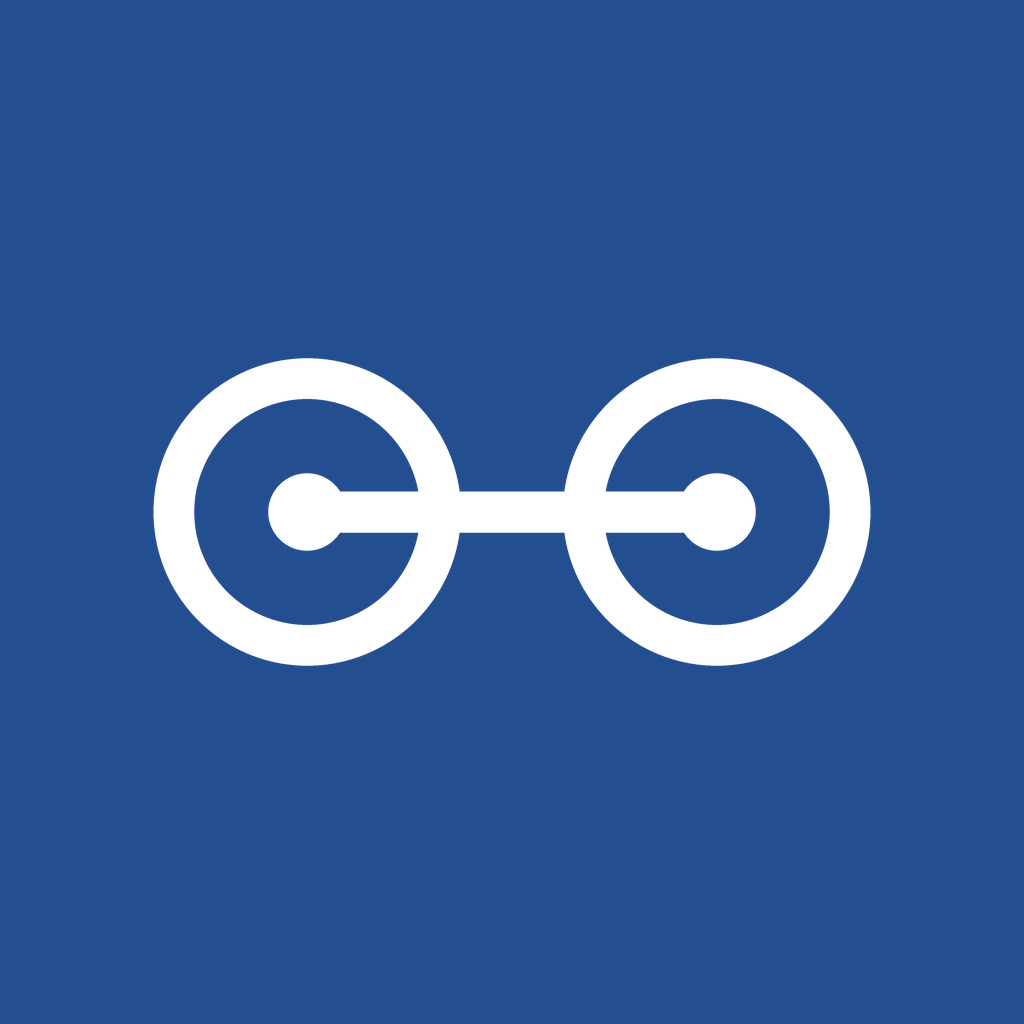
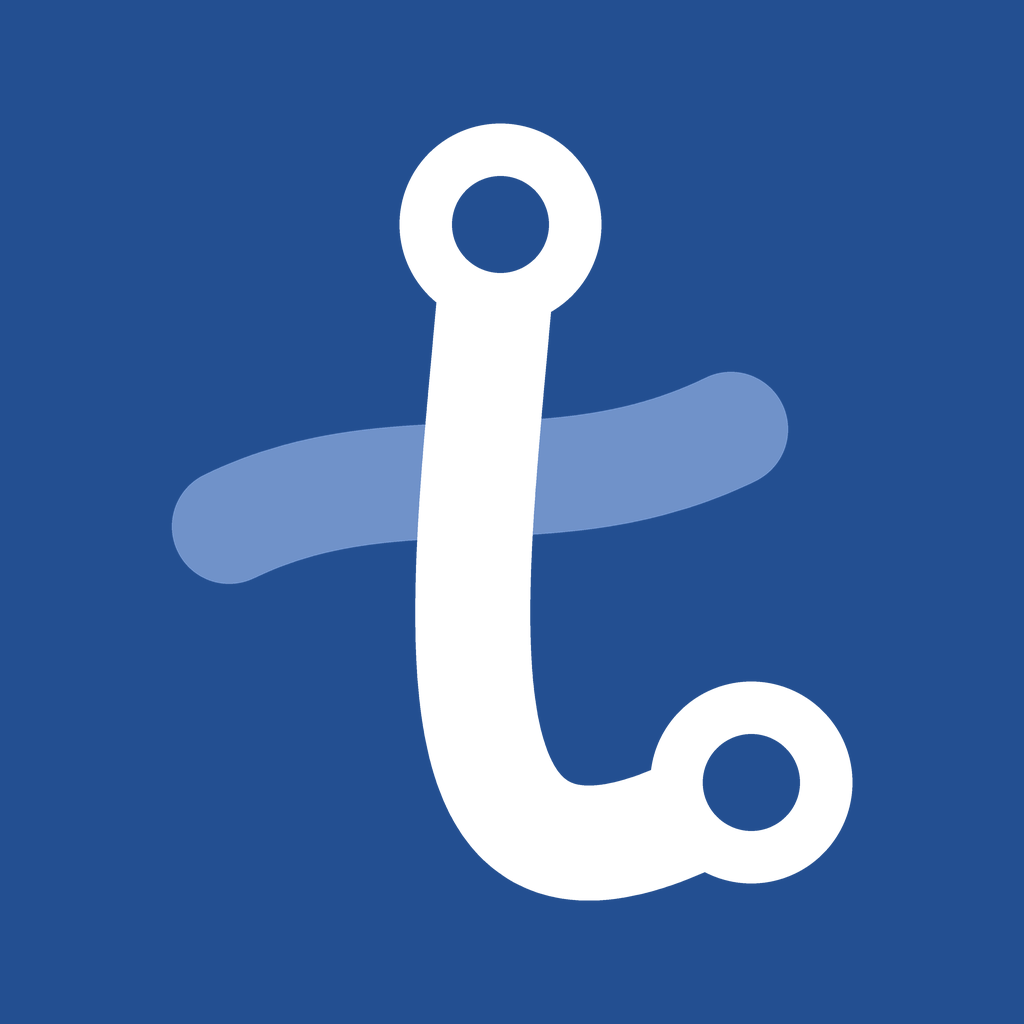
Updated branding

Changed region(s): [[0.125, 0.0938, 0.875, 0.9062]]

diff --git a/scripts/make_banner.py b/scripts/make_banner.py
@@ -1,0 +1,111 @@
+#!/usr/bin/env python3
+"""Builds mockups/banner.png (and banner-readme.png, the same without the logo): the logo, name and a line about the app on the
+left, and the screenshots tiled on a diagonal in the right-hand corner.
+
+Run from the project root after the mockups are captured:
+    python3 scripts/make_banner.py
+"""
+import glob
+import os
+import sys
+
+from PIL import Image, ImageDraw, ImageFilter, ImageFont
+
+sys.path.insert(0, os.path.dirname(os.path.abspath(__file__)))
+from logo import BAR_ON_LIGHT, mark  # noqa: E402
+
+ROOT = os.path.dirname(os.path.dirname(os.path.abspath(__file__)))
+W, H = 2560, 1040  # drawn at twice the size GitHub shows it
+DEEP, PRIMARY, MEDIUM, SOFT, WHITE = (22, 56, 102), (35, 79, 145), (82, 121, 184), (169, 189, 224), (255, 255, 255)
+
+NAME = "Tandem"
+TAGLINE = ["Your calendar and", "public transit,", "planned together."]
+DESCRIPTION = [
+    "It plans the trip between every event in",
+    "your day, tells you when to leave, and",
+    "finds time for a greener walk.",
+]
+
+# Screens in each column, top to bottom; columns run left to right.
+COLUMNS = [
+    # the day's schedule leads: these two columns are the ones nearest the text
+    ["dark/05-calendar-week", "light/10-green-routes", "dark/02-day-route"],
+    ["light/03-route-details", "dark/01-day", "light/02-day-route", "dark/04-calendar-month"],
+    ["light/07-activity", "dark/03-route-details", "light/04-calendar-month", "dark/09-settings-learned"],
+    ["light/08-settings", "dark/07-activity", "light/05-calendar-week", "dark/08-settings"],
+]
+TILE_W, GAP, ANGLE = 400, 44, 18
+STAGGER = [0, -330, -120, -450]  # vertical offset of each column
+
+
+def font(weight, size):
+    path = glob.glob(os.path.join(ROOT, f"frontend/node_modules/@expo-google-fonts/figtree/*/Figtree_{weight}.ttf"))[0]
+    return ImageFont.truetype(path, size)
+
+
+def tiles():
+    """The screenshots in staggered columns with soft shadows, on a transparent sheet."""
+    tile_h = round(TILE_W * 2208 / 1242)
+    rows = max(len(c) for c in COLUMNS)
+    pad = 500
+    sheet_w = len(COLUMNS) * (TILE_W + GAP) + 2 * pad
+    sheet_h = rows * (tile_h + GAP) + 2 * pad
+    shadow = Image.new("RGBA", (sheet_w, sheet_h), (0, 0, 0, 0))
+    sheet = Image.new("RGBA", (sheet_w, sheet_h), (0, 0, 0, 0))
+    radius = round(120 * TILE_W / 1242)
+    for c, column in enumerate(COLUMNS):
+        for r, name in enumerate(column):
+            shot = Image.open(os.path.join(ROOT, "mockups", name + ".png")).convert("RGBA").resize((TILE_W, tile_h), Image.LANCZOS)
+            x = pad + c * (TILE_W + GAP)
+            y = pad + STAGGER[c] + r * (tile_h + GAP)
+            ImageDraw.Draw(shadow).rounded_rectangle((x, y + 18, x + TILE_W, y + tile_h + 18), radius=radius, fill=(6, 18, 40, 150))
+            sheet.alpha_composite(shot, (x, y))
+    shadow = shadow.filter(ImageFilter.GaussianBlur(26))
+    shadow.alpha_composite(sheet)
+    return shadow.rotate(ANGLE, resample=Image.BICUBIC, expand=True)
+
+
+def build(lockup):
+    """The banner. With `lockup`, the logo and name sit above the headline."""
+    # Ground: deep blue, a little lighter towards the corner the screens sit in.
+    banner = Image.new("RGBA", (W, H), DEEP + (255,))
+    glow = Image.new("RGBA", (W, H), (0, 0, 0, 0))
+    ImageDraw.Draw(glow).ellipse((W * 0.45, -H * 0.5, W * 1.35, H * 1.3), fill=PRIMARY + (255,))
+    banner.alpha_composite(glow.filter(ImageFilter.GaussianBlur(260)))
+
+    grid = tiles()
+    # Centre of the tiled sheet sits right of centre, so the screens run off the top, right and bottom edges.
+    banner.alpha_composite(grid, (round(W * 0.81 - grid.width / 2), round(H * 0.5 - grid.height / 2)))
+
+    d = ImageDraw.Draw(banner)
+    left, tile, after_logo, line, small, gap = 150, 148, 96, 110, 58, 46
+    height = len(TAGLINE) * line + gap + len(DESCRIPTION) * small + (tile + after_logo if lockup else 0)
+    y = round((H - height) / 2)  # the text block is centred top to bottom
+
+    if lockup:  # the mark on a white rounded tile, with the name beside it
+        d.rounded_rectangle((left, y, left + tile, y + tile), radius=38, fill=WHITE)
+        banner.alpha_composite(mark(tile, PRIMARY, BAR_ON_LIGHT, scale=1.08), (left, y))
+        d.text((left + tile + 40, y + tile / 2), NAME, font=font("700Bold", 124), fill=WHITE, anchor="lm")
+        y += tile + after_logo
+
+    for text in TAGLINE:
+        d.text((left, y), text, font=font("600SemiBold", 92), fill=WHITE)
+        y += line
+    y += gap
+    for text in DESCRIPTION:
+        d.text((left, y), text, font=font("400Regular", 40), fill=SOFT)
+        y += small
+    return banner.convert("RGB")
+
+
+def main():
+    # banner.png stands alone (slides, social cards). banner-readme.png leaves the
+    # logo and name out, because the README shows them right above it.
+    for name, lockup in (("banner.png", True), ("banner-readme.png", False)):
+        out = os.path.join(ROOT, "mockups", name)
+        build(lockup).save(out, optimize=True)
+        print(out)
+
+
+if __name__ == "__main__":
+    main()

diff --git a/scripts/logo.py b/scripts/logo.py
@@ -1,0 +1,67 @@
+"""The Tandem mark: a cursive lowercase t drawn as two transit lines.
+
+The stem is one line: it comes down from the top and sweeps out to the right
+at its foot, as a handwritten t does. The crossbar is a second line crossing
+it, passing behind. A ring-shaped station marker sits at each end of the stem:
+at its top and at its tail. Used by make_icons.py and make_banner.py.
+"""
+from PIL import Image, ImageChops, ImageDraw
+
+SS = 4  # drawn oversized, then scaled down, for smooth edges
+
+# The crossbar's colour: clearly apart from the stem's, still visible on the ground.
+BAR_ON_BLUE = (112, 146, 201)  # under a white stem, on the brand blue
+BAR_ON_LIGHT = (140, 168, 215)  # under a blue stem, on white or the ice ground
+
+# Each stroke is a cubic curve in unit coordinates: start, two control points, end.
+STEM = ((0.50, 0.155), (0.475, 0.50), (0.39, 0.915), (0.745, 0.70))
+BAR = ((0.235, 0.45), (0.40, 0.37), (0.55, 0.44), (0.725, 0.355))
+
+
+def _point(curve, t):
+    (x0, y0), (x1, y1), (x2, y2), (x3, y3) = curve
+    a, b, c, d = (1 - t) ** 3, 3 * (1 - t) ** 2 * t, 3 * (1 - t) * t**2, t**3
+    return a * x0 + b * x1 + c * x2 + d * x3, a * y0 + b * y1 + c * y2 + d * y3
+
+
+def mark(size, main, second, scale=1.0):
+    """The mark on a transparent square. `main` is the stem's RGB colour and `second` the crossbar's.
+    The station rings are cut through, so whatever is behind the mark shows in them."""
+    s = size * SS
+    centre = s / 2
+    w = s * 0.112 * scale  # line thickness
+
+    def at(x, y):  # unit coordinates (0..1, centred on 0.5) -> pixels
+        return centre + (x - 0.5) * s * scale, centre + (y - 0.5) * s * scale
+
+    def disc(mask, x, y, r, fill):
+        px, py = at(x, y)
+        ImageDraw.Draw(mask).ellipse((px - r, py - r, px + r, py + r), fill=fill)
+
+    def stroke(mask, curve):  # overlapping discs along the curve make a smooth, round-ended line
+        for i in range(601):
+            disc(mask, *_point(curve, i / 600), w / 2, 255)
+
+    stem_mask = Image.new("L", (s, s), 0)
+    bar_mask = Image.new("L", (s, s), 0)
+    holes = Image.new("L", (s, s), 255)
+    stroke(stem_mask, STEM)
+    stroke(bar_mask, BAR)
+    for x, y in (STEM[0], STEM[3]):
+        outer = w * 0.88
+        disc(stem_mask, x, y, outer, 255)
+        disc(holes, x, y, outer * 0.48, 0)
+
+    out = Image.new("RGBA", (s, s), (0, 0, 0, 0))
+    # The crossbar passes under the stem, and never shows through the stem's rings.
+    under = Image.new("RGBA", (s, s), tuple(second[:3]) + (255,))
+    under.putalpha(ImageChops.multiply(bar_mask, ImageChops.invert(stem_mask)))
+    out.alpha_composite(under)
+    over = Image.new("RGBA", (s, s), tuple(main[:3]) + (255,))
+    over.putalpha(ImageChops.multiply(stem_mask, holes))
+    out.alpha_composite(over)
+    # Centre the drawn shape in the square: the letter itself is not symmetrical.
+    box = out.getbbox()
+    if box:
+        out = ImageChops.offset(out, round(centre - (box[0] + box[2]) / 2), round(centre - (box[1] + box[3]) / 2))
+    return out.resize((size, size), Image.LANCZOS)

diff --git a/scripts/make_icons.py b/scripts/make_icons.py
@@ -1,0 +1,45 @@
+#!/usr/bin/env python3
+"""Writes the app's icon, splash and favicon images to frontend/assets.
+
+Run from the project root:
+    python3 scripts/make_icons.py
+"""
+import os
+import sys
+
+from PIL import Image, ImageDraw
+
+sys.path.insert(0, os.path.dirname(os.path.abspath(__file__)))
+from logo import BAR_ON_BLUE, BAR_ON_LIGHT, mark  # noqa: E402
+
+ASSETS = os.path.join(os.path.dirname(os.path.dirname(os.path.abspath(__file__))), "frontend", "assets")
+PRIMARY, MEDIUM, SOFT, PALE, WHITE = (35, 79, 145), (82, 121, 184), (169, 189, 224), (223, 232, 247), (255, 255, 255)
+
+
+def main():
+    os.makedirs(ASSETS, exist_ok=True)
+
+    # App icon: full-bleed blue; the stores round the corners themselves.
+    icon = Image.new("RGBA", (1024, 1024), PRIMARY + (255,))
+    icon.alpha_composite(mark(1024, WHITE, BAR_ON_BLUE))
+    icon.convert("RGB").save(os.path.join(ASSETS, "icon.png"))
+
+    # Android adaptive icon: the mark alone, inside the safe zone; the blue comes from app.json.
+    mark(1024, WHITE, BAR_ON_BLUE, scale=0.7).save(os.path.join(ASSETS, "adaptive-icon.png"))
+
+    # Splash: the mark on the app's ground colour (set in app.json), light and dark.
+    mark(1024, PRIMARY, BAR_ON_LIGHT).save(os.path.join(ASSETS, "splash-icon.png"))
+    mark(1024, PALE, MEDIUM).save(os.path.join(ASSETS, "splash-icon-dark.png"))
+
+    # Favicon: a rounded blue tile.
+    ss = 4
+    tile = Image.new("RGBA", (196 * ss, 196 * ss), (0, 0, 0, 0))
+    ImageDraw.Draw(tile).rounded_rectangle((0, 0, 196 * ss - 1, 196 * ss - 1), radius=44 * ss, fill=PRIMARY + (255,))
+    tile = tile.resize((196, 196), Image.LANCZOS)
+    tile.alpha_composite(mark(196, WHITE, BAR_ON_BLUE, scale=1.08))
+    tile.save(os.path.join(ASSETS, "favicon.png"))
+    print("wrote icon, adaptive-icon, splash-icon, splash-icon-dark, favicon to", ASSETS)
+
+
+if __name__ == "__main__":
+    main()

diff --git a/README.md b/README.md
@@ -1,9 +1,8 @@
-<h1 align="center">Tandem</h1>
-
 <p align="center">
-  <b>A day planner that joins your calendar with public transit in greater Montreal.</b><br>
-  It plans the trip between every pair of events, tells you when to leave, and uses spare time for a greener walk.
+  <img src="frontend/assets/favicon.png" alt="Tandem logo: a handwritten t drawn as two transit lines" width="96">
 </p>
+
+<h1 align="center">Tandem</h1>
 
 <p align="center">
   <img alt="Go 1.26" src="https://img.shields.io/badge/Go-1.26-00ADD8?logo=go&logoColor=white">
@@ -13,12 +12,10 @@
 </p>
 
 <p align="center">
-  <img src="mockups/light/10-green-routes.png" alt="Day tab with green routes on: the day's totals, then the route from home to the first event, with the walk through a park marked by a pine tree" width="280">
-  &nbsp;&nbsp;&nbsp;
-  <img src="mockups/light/07-activity.png" alt="Activity tab: today's steps and the last seven days" width="280">
+  <img src="mockups/banner-readme.png" alt="Your calendar and public transit, planned together. Tandem plans the trip between every event in your day, tells you when to leave, and finds time for a greener walk. Shown beside a spread of the app's screens." width="100%">
 </p>
 
-<p align="center"><sub>Day, with green routes on &nbsp;·&nbsp; Activity</sub></p>
+<p align="center">A day planner for greater Montreal that joins your calendar with public transit.</p>
 
 ---
 
@@ -47,6 +44,14 @@ Routes are planned from the calendar, not from a search box: the app already kno
 - **Saved places.** Keep the places you go to often and pick them as an event's location or a day's start or end.
 - **Step counting.** From the phone's own pedometer, with a seven-day chart and a green-walk streak.
 - **Light and dark themes.**
+
+<p align="center">
+  <img src="mockups/light/10-green-routes.png" alt="Day tab with green routes on: the day's totals, then the route from home to the first event, with the walk through a park marked by a pine tree" width="280">
+  &nbsp;&nbsp;&nbsp;
+  <img src="mockups/light/07-activity.png" alt="Activity tab: today's steps and the last seven days" width="280">
+</p>
+
+<p align="center"><sub>Day, with green routes on &nbsp;·&nbsp; Activity</sub></p>
 
 ## How it works
 
